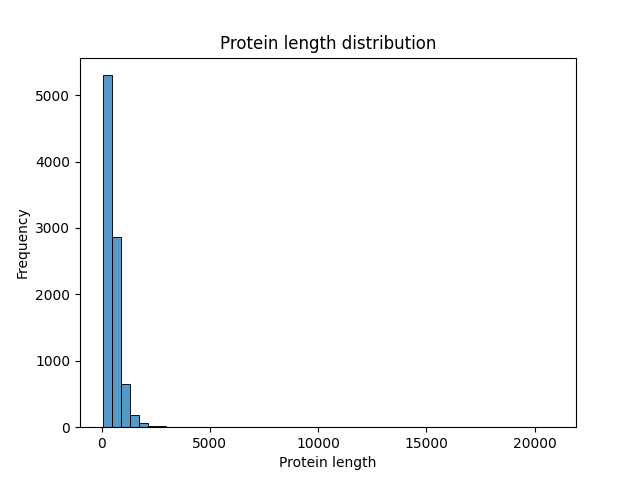
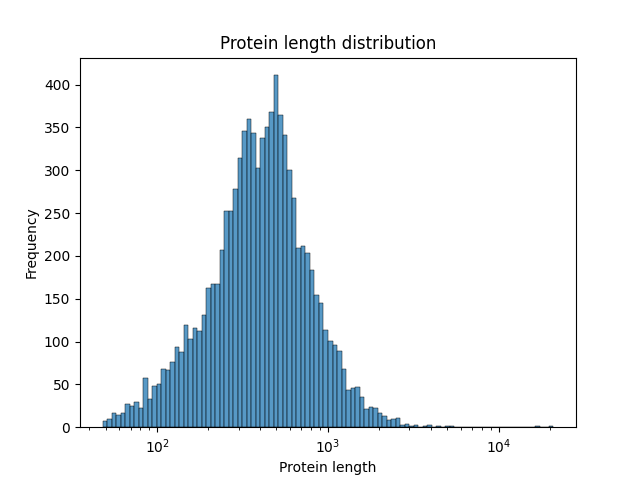
modified:   README.md modified:   results/protein_length_distribution.png

diff --git a/README.md b/README.md
@@ -15,6 +15,9 @@ Key results:
 - Median protein length: 409 aa
 - Long-tail distribution due to NRPS enzymes
 
+## Protein length distribution
+![Protein length distribution](results/protein_length_distribution.png)
+
 ## Next steps
 
 Secretome prediction using SignalP.
